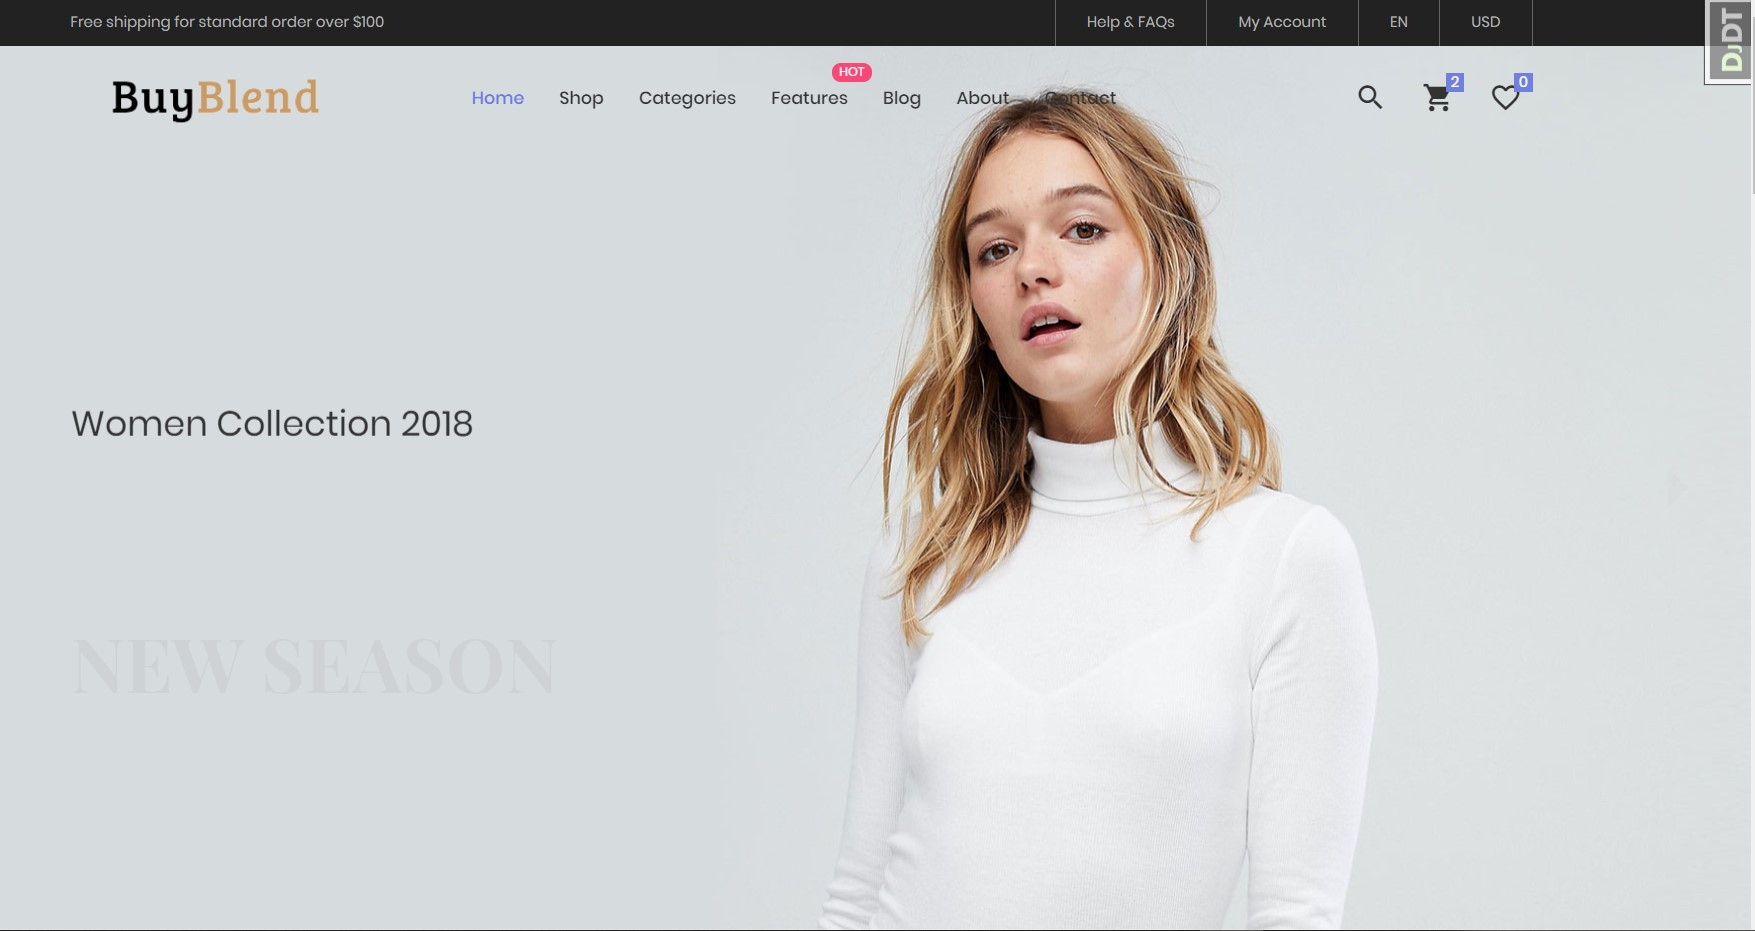
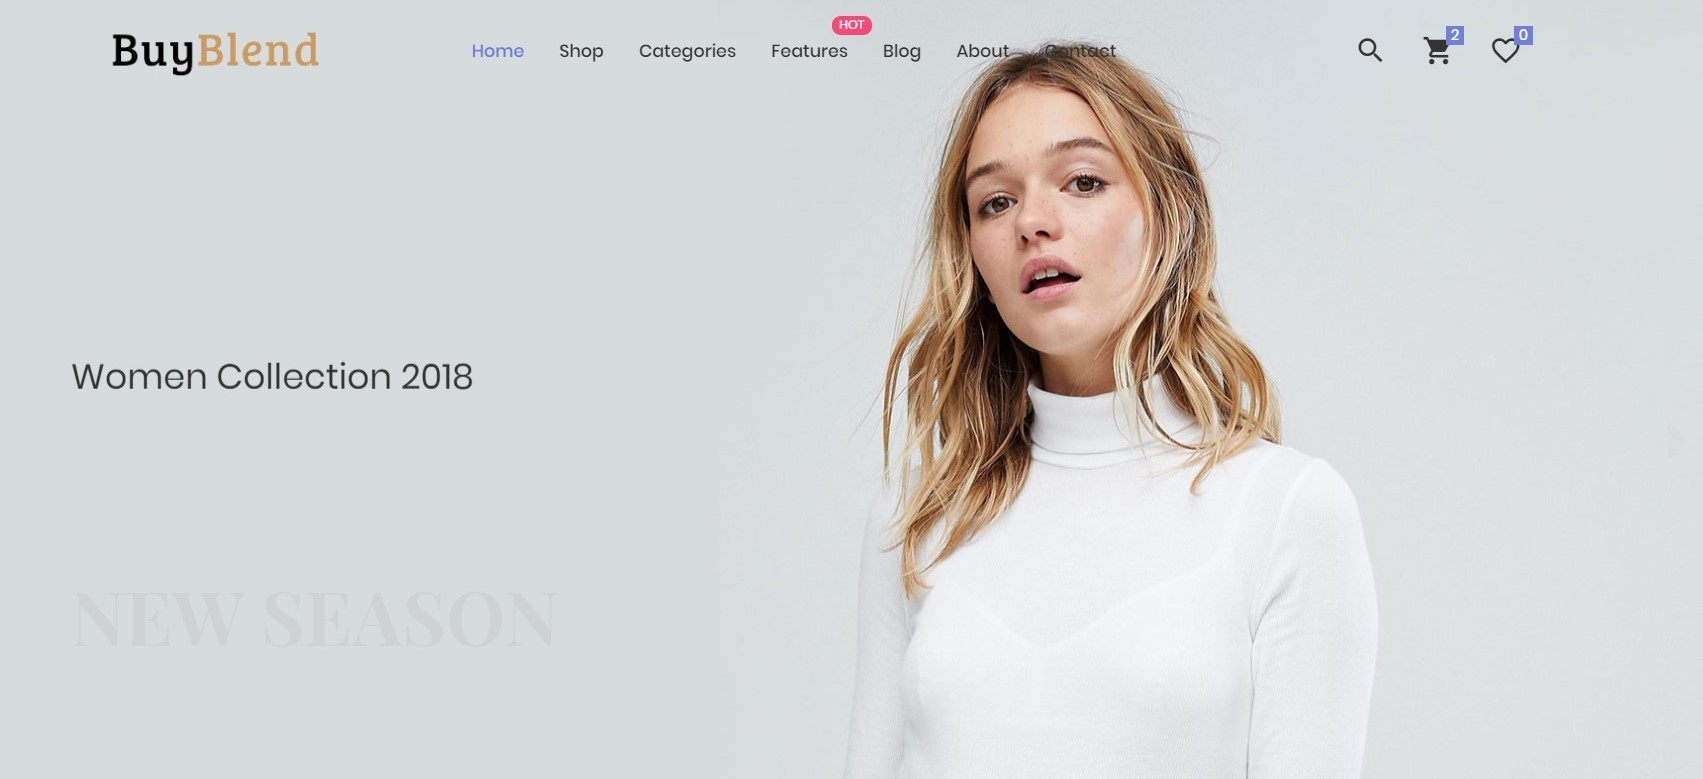
add new project real estate

Changed region(s): [[0.0, 0.0, 1.0, 0.801], [0.0311, 0.4313, 0.2801, 0.5237], [0.7158, 0.9859, 0.7469, 1.0]]

diff --git a/index.html b/index.html
@@ -173,7 +173,7 @@
       <section id="home">
         <div class="hero-wrap">
           <div class="hero-mask opacity-8 bg-dark"></div>
-          <div class="hero-bg parallax" style="background-image:url('images/paner1.png');"></div>
+          <div class="hero-bg parallax" style="background-image:url('images/p5.avif');"></div>
           <div class="hero-content section d-flex min-vh-100">
             <div class="container my-auto">
               <div class="row">
@@ -194,7 +194,7 @@
                   </div>
                   <p class="text-7 fw-500 text-white mb-2 mb-md-3">Welcome</p>
                   <h2 class="text-16 fw-600 text-white mb-2 mb-md-3"><span class="typed"></span></h2>
-                  <p class="text-5 text-light mb-4">... </p>
+                  <!-- <p class="text-5 text-light mb-4">... </p> -->
                   <a href="#contact" class="btn btn-outline-primary rounded-pill shadow-none smooth-scroll mt-2">Hire
                     Me</a>
                 </div>
@@ -343,11 +343,15 @@
               <br>
 
             </div>
-
+          </section>
             <!-- My Skills -->
-
-            <h2 class="text-6 text-white fw-600 mt-4 mb-4">My Skills</h2>
-
+          <section class = "section bg-dark-1">
+            <div class="container">  
+              <div class="position-relative d-flex text-center mb-5">
+                <h2 class="text-24 text-muted opacity-1 text-uppercase fw-600 w-100 mb-0">Skills</h2>
+                <p class="text-9 text-white fw-600 position-absolute w-100 align-self-center lh-base mb-0">Skills<span
+                    class="heading-separator-line border-bottom border-3 border-primary d-block mx-auto"></span> </p>
+              </div>
             <div class="row gx-5">
 
               <div class="col-md-6">
@@ -386,14 +390,17 @@
                     aria-valuemax="100"></div>
                 </div>
 
-              </div>
-              <div class="col-md-6">
-
                 <p class="text-light fw-500 text-start mb-2">GitHub <span class="float-end">85%</span></p>
                 <div class="progress progress-sm bg-dark mb-4">
                   <div class="progress-bar" role="progressbar" style="width: 85%" aria-valuenow="90" aria-valuemin="0"
                     aria-valuemax="100"></div>
                 </div>
+
+               
+              </div>
+              <div class="col-md-6">
+
+               
 
                 <p class="text-light fw-500 text-start mb-2">SQL <span class="float-end">80%</span></p>
                 <div class="progress progress-sm bg-dark mb-4">
@@ -406,6 +413,7 @@
                   <div class="progress-bar" role="progressbar" style="width: 70%" aria-valuenow="70" aria-valuemin="0"
                     aria-valuemax="100"></div>
                 </div>
+              
 
                 <p class="text-light fw-500 text-start mb-2">HTML / CSS <span class="float-end">70%</span></p>
                 <div class="progress progress-sm bg-dark mb-4">
@@ -418,23 +426,32 @@
                   <div class="progress-bar" role="progressbar" style="width: 60%" aria-valuenow="60" aria-valuemin="0"
                     aria-valuemax="100"></div>
                 </div>
-                <p class="text-light fw-500 text-start mb-2">Vue.js <span class="float-end">70%</span></p>
+                <p class="text-light fw-500 text-start mb-2">Vue.js <span class="float-end">50%</span></p>
                 <div class="progress progress-sm bg-dark mb-4">
-                  <div class="progress-bar" role="progressbar" style="width: 70%" aria-valuenow="70" aria-valuemin="0"
+                  <div class="progress-bar" role="progressbar" style="width: 50%" aria-valuenow="50" aria-valuemin="0"
                     aria-valuemax="100"></div>
                 </div>
+
+
+                <p class="text-light fw-500 text-start mb-2">React.js <span class="float-end">50%</span></p>
+                <div class="progress progress-sm bg-dark mb-4">
+                  <div class="progress-bar" role="progressbar" style="width: 50%" aria-valuenow="50" aria-valuemin="0"
+                    aria-valuemax="100"></div>
+                </div>
+
               </div>
             </div>
-            <div class="text-center mt-5"><a <a
+            <div class="text-center mt-5"><a
                 href="https://drive.google.com/file/d/1IVKQCZWX2gxC3PcUpWMi07ymJQ-XWuk0/view?usp=sharing"
                 class="btn btn-primary rounded-pill" target="_blank">Download CV</a>
             </div>
+          </div>
       </section>
       <!-- Resume end -->
 
       <!-- Portfolio
     ============================================= -->
-      <section id="portfolio" class="section bg-dark-1">
+      <section id="portfolio" class="section bg-dark-2">
         <div class="container">
           <!-- Heading -->
           <div class="position-relative d-flex text-center mb-5">
@@ -502,14 +519,31 @@
               </div>
 
 
-              <div class="col-sm-6 col-lg-4 artwork backend">
+              <div class="col-sm-6 col-lg-4 artwork backend frontend">
                 <div class="portfolio-box rounded">
-                  <div class="portfolio-img rounded"> <img class="img-fluid d-block" src="images/projects/project03.jpg"
+                  <div class="portfolio-img rounded"> <img class="img-fluid d-block" src="images/projects/project-todo.jpg"
                       alt="">
                     <div class="portfolio-overlay"> <a class="popup-ajax stretched-link"
-                        href="https://github.com/Mohamed00Abdelmonem/Dj_System_Quiz"></a>
+                        href="https://github.com/Mohamed00Abdelmonem/Dj-React-ToDo"></a>
                       <div class="portfolio-overlay-details">
-                        <h5 class="text-white fw-400">System Quizzes</h5>
+                        <h5 class="text-white fw-400">ToDo App</h5>
+                        <span class="text-light">Rest Api | React.js</span>
+                      </div>
+                    </div>
+                  </div>
+                </div>
+              </div>
+
+
+
+              <div class="col-sm-6 col-lg-4 artwork backend">
+                <div class="portfolio-box rounded">
+                  <div class="portfolio-img rounded"> <img class="img-fluid d-block" src="images/projects/real estate.jpg"
+                      alt="">
+                    <div class="portfolio-overlay"> <a class="popup-ajax stretched-link"
+                        href="https://github.com/Mohamed00Abdelmonem/Dj-Real-Estate"></a>
+                      <div class="portfolio-overlay-details">
+                        <h5 class="text-white fw-400">Real Estate</h5>
                         <span class="text-light">Python | Django</span>
                       </div>
                     </div>
@@ -556,92 +590,18 @@
       </section>
       <!-- Portfolio end  -->
 
-      <!-- Testimonial
+      <!-- Testimonial for clinet 
     =============================================  -->
-      <section id="testimonial" class="section bg-dark-2">
-        <div class="container">
-          <!-- Heading -->
-          <div class="position-relative d-flex text-center mb-5">
-            <h2 class="text-24 text-muted opacity-1 text-uppercase fw-600 w-100 mb-0">Testimonial</h2>
-            <p class="text-9 text-white fw-600 position-absolute w-100 align-self-center lh-base mb-0">Client Speak<span
-                class="heading-separator-line border-bottom border-3 border-primary d-block mx-auto"></span> </p>
-          </div>
-          <!-- Heading end-->
+     
 
-          <div class="owl-carousel owl-light owl-theme" data-loop="true" data-nav="false" data-autoplay="false"
-            data-margin="25" data-stagepadding="0" data-slideby="1" data-items-xs="1" data-items-sm="1"
-            data-items-md="1" data-items-lg="2">
-            <div class="item">
-              <div class="bg-dark rounded p-5">
-                <div class="d-flex align-items-center mt-auto mb-4"> <img
-                    class="img-fluid rounded-circle d-inline-block w-auto" src="images/testimonial/cliet-sm-3.jpg"
-                    alt="">
-                  <p class="ms-3 mb-0"><strong class="d-block text-white fw-600">Mohamed Shaheen</strong> <span
-                      class="text-white-50 fw-500">User from Egypt</span></p>
-                </div>
-                <p class="text-light mb-4">“Working with Mohamed was an absolute pleasure. His expertise in Django and
-                  Python brought our project to life. He was attentive to our needs, delivered high-quality code, and
-                  met all our deadlines. Mohamed's professionalism and technical skills are unmatched!”</p>
-                <span class="text-2"> <i class="fas fa-star text-warning"></i> <i class="fas fa-star text-warning"></i>
-                  <i class="fas fa-star text-warning"></i> <i class="fas fa-star text-warning"></i> <i
-                    class="fas fa-star text-warning"></i> </span>
-              </div>
-            </div>
-            <div class="item">
-              <div class="bg-dark rounded p-5">
-                <div class="d-flex align-items-center mt-auto mb-4"> <img
-                    class="img-fluid rounded-circle d-inline-block w-auto" src="images/testimonial/clent-sm-1.jpg"
-                    alt="">
-                  <p class="ms-3 mb-0"><strong class="d-block text-white fw-600">Ahmed Wail</strong> <span
-                      class="text-white-50 fw-500">User from Egypt</span></p>
-                </div>
-                <p class="text-light mb-4">”Mohamed is a backend wizard! His deep knowledge of Django and Python helped
-                  us build a scalable and efficient web application. He was proactive in suggesting improvements and
-                  worked seamlessly with our team. I highly recommend Mohamed for any backend development needs.”</p>
-                <span class="text-2"> <i class="fas fa-star text-warning"></i> <i class="fas fa-star text-warning"></i>
-                  <i class="fas fa-star text-warning"></i> <i class="fas fa-star text-warning"></i> <i
-                    class="fas fa-star text-warning"></i> </span>
-              </div>
-            </div>
-            <div class="item">
-              <div class="bg-dark rounded p-5">
-                <div class="d-flex align-items-center mt-auto mb-4"> <img
-                    class="img-fluid rounded-circle d-inline-block w-auto" src="images/testimonial/clent-sm-2.jpg"
-                    alt="">
-                  <p class="ms-3 mb-0"><strong class="d-block text-white fw-600">Ali</strong> <span
-                      class="text-white-50 fw-500">Freelancer from Egypt</span></p>
-                </div>
-                <p class="text-light mb-4">“I had the privilege of collaborating with Mohamed on a complex project. His
-                  attention to detail and problem-solving abilities were impressive. Mohamed's backend expertise,
-                  especially in Django and Python, was evident in the flawless functionality of our application. I
-                  couldn't be happier with the results ”</p>
-                <span class="text-2"> <i class="fas fa-star text-warning"></i> <i class="fas fa-star text-warning"></i>
-                  <i class="fas fa-star text-warning"></i> <i class="fas fa-star text-warning"></i> <i
-                    class="fas fa-star text-warning"></i> </span>
-              </div>
-            </div>
-            <div class="item">
-              <div class="bg-dark rounded p-5">
-                <div class="d-flex align-items-center mt-auto mb-4"> <img
-                    class="img-fluid rounded-circle d-inline-block w-auto" src="images/testimonial/client-sm2.jpg"
-                    alt="">
-                  <p class="ms-3 mb-0"><strong class="d-block text-white fw-600">Kareem</strong> <span
-                      class="text-white-50 fw-500">User from Egypt</span></p>
-                </div>
-                <p class="text-light mb-4">“Mohamed is a backend developer extraordinaire! His mastery of Django and
-                  Python helped us build a robust and scalable platform. He was always available to address our concerns
-                  and went above and beyond to ensure our satisfaction. Mohamed's expertise and dedication are second to
-                  none. We highly recommend him for any backend development project!"
 
-                </p>
-                <span class="text-2"> <i class="fas fa-star text-warning"></i> <i class="fas fa-star text-warning"></i>
-                  <i class="fas fa-star text-warning"></i> <i class="fas fa-star text-warning"></i> <i
-                    class="fas fa-star text-warning"></i> </span>
-              </div>
-            </div>
-          </div>
-        </div>
-      </section>
+
+
+
+
+
+
+
       <!-- Testimonial end -->
       <!-- Content start -->
       <div id="content" class="section footer-dark bg-dark-1">
@@ -673,23 +633,25 @@
       <!-- Content end -->
 
       <!-- Footer -->
-      <footer id="footer" class="section footer-dark bg-dark-2">
-        <div class="container">
-          <div class="row">
-            <div class="col-md-6 text-center text-md-end">
-              <p class="mb-3 mb-md-0">Copyright © 2023 <a href="#" class="fw-500 text-light">Mohamed Abdelmonem</a>. All
-                Rights Reserved.</p>
-            </div>
-            <div class="col-md-6 text-center text-md-end">
-              <!-- Back to Top -->
-              <a id="back-to-top" class="rounded-circle" data-bs-toggle="tooltip" title="Back to Top"
-                href="javascript:void(0)">
-                <i class="fa fa-chevron-up"></i>
-              </a>
-            </div>
-          </div>
-        </div>
-      </footer>
+    <footer id="footer" class="section footer-dark bg-dark-2">
+  <div class="container">
+    <div class="row justify-content-center text-center">
+      <div class="col-md-6">
+        <p class="mb-3 mb-md-0">Copyright © 2023 
+          <a href="#" class="fw-500 text-light">Mohamed Abdelmonem</a>. 
+          All Rights Reserved.
+        </p>
+      </div>
+      <div class="col-md-6">
+        <!-- Back to Top -->
+        <a id="back-to-top" class="rounded-circle" data-bs-toggle="tooltip" title="Back to Top" href="javascript:void(0)">
+          <i class="fa fa-chevron-up"></i>
+        </a>
+      </div>
+    </div>
+  </div>
+</footer>
+
       <!-- Footer end -->
 
 
